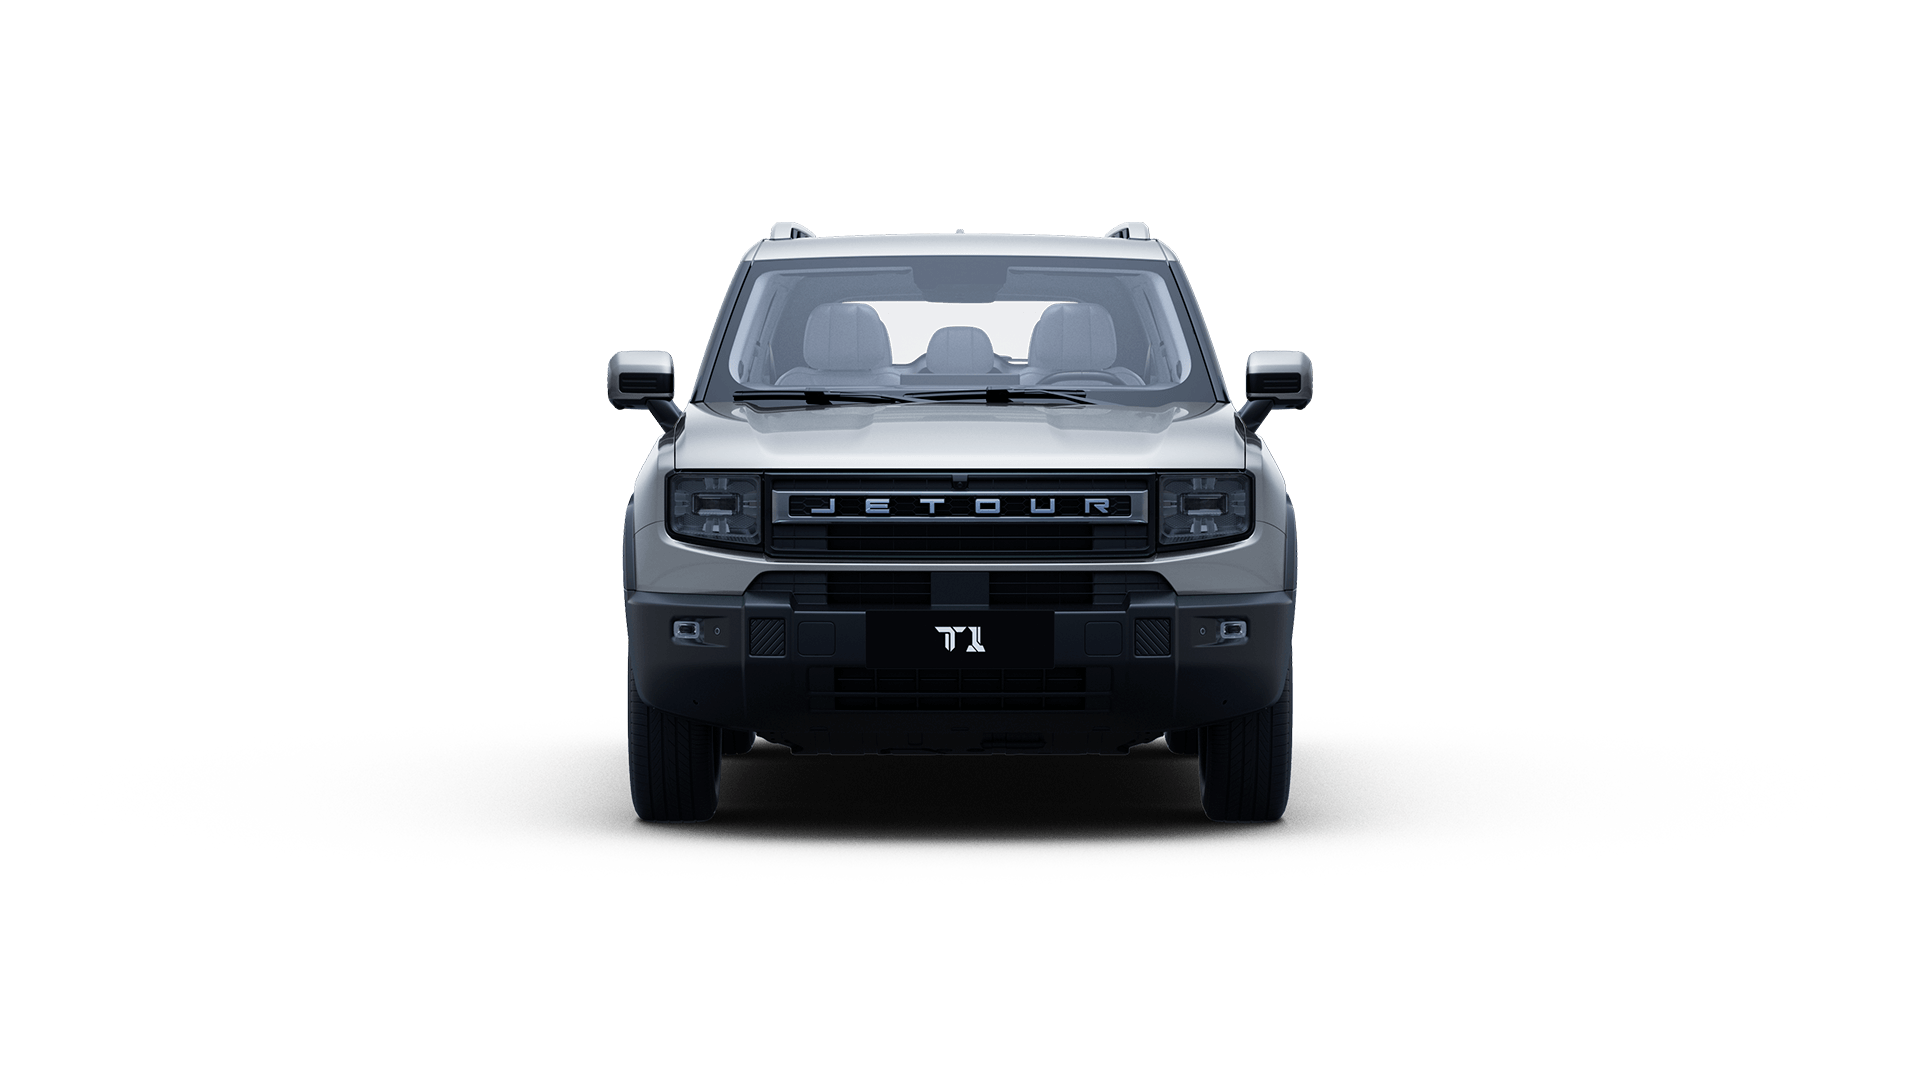
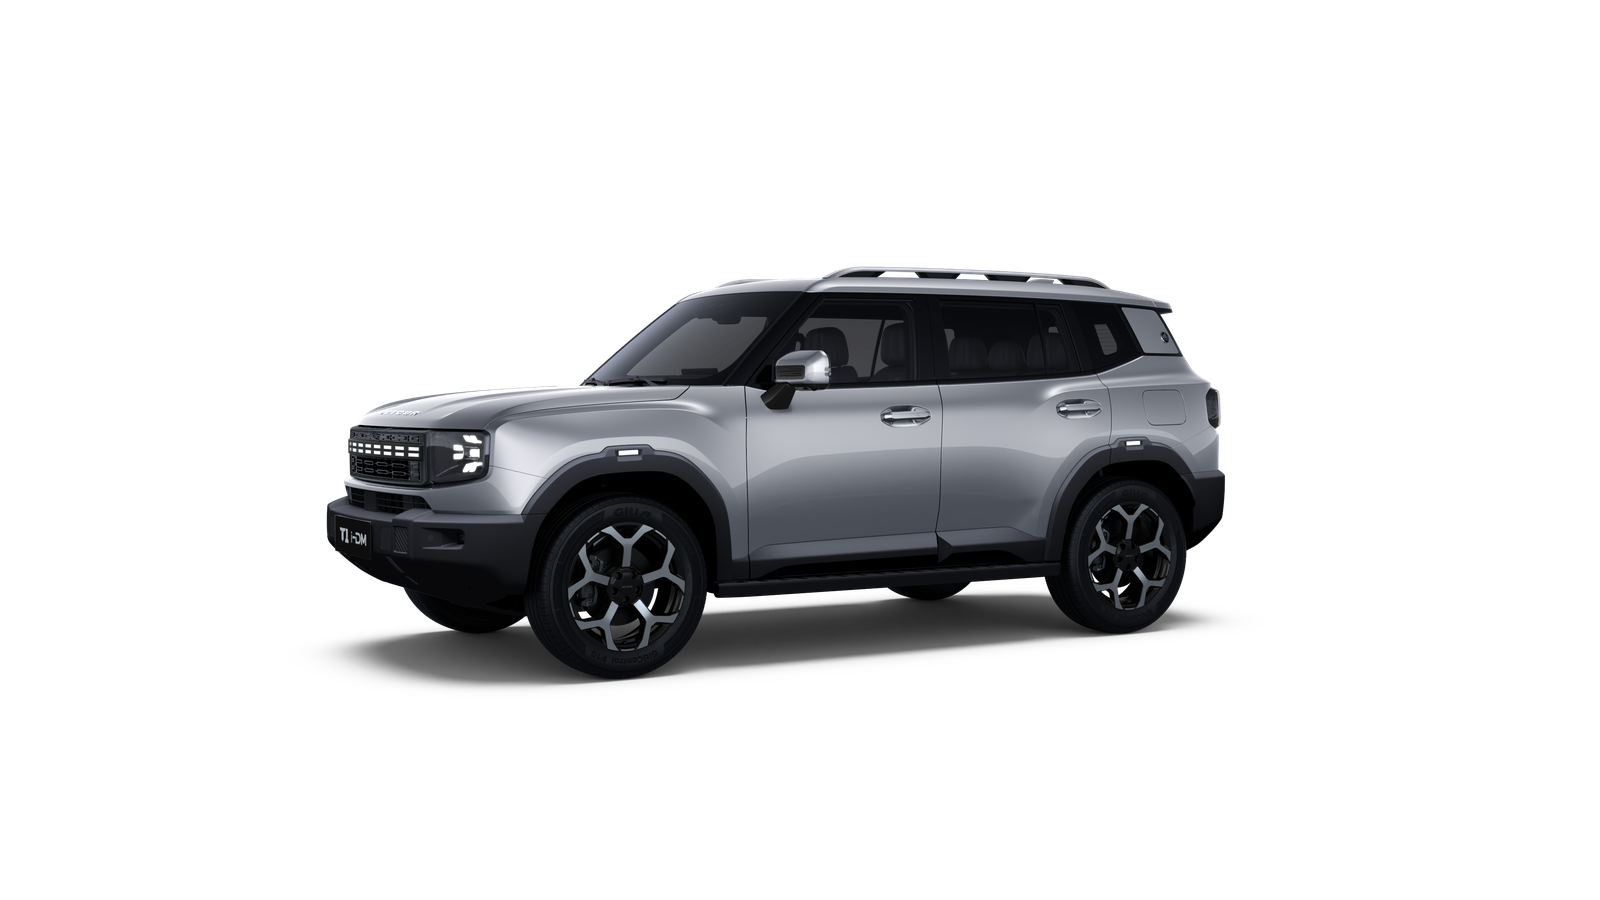
feat(t1-phev): selector de colores y 360 de 72 frames
El T1 PHEV era el unico modelo del catalogo sin selector de colores ni
modulo 360: `vehicleColorsNew` y `threeSixty` estaban ausentes en
lib/page-data.js y en null en Sanity.

Colores (entregados por Jetour el 2026-09-01, correo "colores para la MOV
de T1"): Blanco, Negro, Crema y Plata en espanol Title Case, igual que los
otros 10 modelos. Falta "Plomo Mate", que el cliente marco PENDIENTE.
Renders a 1024x576, la convencion de F700/G700. Los hex de Blanco, Negro y
Plata se reusan del F700 (misma paleta de fabrica y mismo pipeline de
render); "Crema" se midio neutro (#A7A7A5) y se calento a #A5A08F para que
el swatch se distinga del de Plata en el selector.

360: los 72 frames se sirven desde /public a 1600x900, igual que el F700
--el unico otro modelo self-hosted-- porque no tenemos escritura en el
bucket GCS de devxiy. PNG sin perdida a proposito: quantizar a 256 colores
bajaba de 407 KB a 47 KB por frame pero bandeaba la carroceria.
components/360.jsx arma el nombre como `${imagePath}/${i}.png`, sin padding,
asi que los 001.png-072.png del cliente se renombran a 1.png-72.png.

La miniatura del home pasa de 360/22.png a 360/9.png: con el set viejo de
28 frames el 22 era el perfil hacia la izquierda, y en el set de 72 ese
mismo angulo cae en el 9.

Los 4 colores ya estan en Sanity production. `threeSixty` NO: los frames
viven en el repo, asi que publicar el campo antes de este deploy hacia que
produccion pidiera los frames 29-72 y devolviera 404. Se aplica despues de
[…]

Changed region(s): [[0.1875, 0.1867, 0.7812, 0.8089]]

diff --git a/lib/page-data.js b/lib/page-data.js
@@ -2617,6 +2617,53 @@ export const vehicleModelPagesData = {
         },
       ],
     },
+    // 360° entregado por Jetour el 2026-09-01 junto con los colores. El T1 PHEV tampoco
+    // tenía este módulo (`threeSixty` ausente acá y null en Sanity). Los 72 frames vienen
+    // a 4000×2250 y se sirven reescalados a 1600×900, igual que el F700 — el único otro
+    // modelo self-hosted; el resto sigue apuntando al bucket GCS de devxiy.
+    // El componente arma el nombre como `${imagePath}/${i}.png` (1..totalFrames, sin padding).
+    threeSixty: {
+      model: "t1-phev",
+      totalFrames: 72,
+      title: "Vista 360° del T1 PHEV",
+      subtitle:
+        "Arrastra para rotar el vehículo o usa los controles de navegación",
+      imagePath: "/models/t1-phev/360",
+      showInstructions: true,
+    },
+    // Colores entregados por Jetour el 2026-09-01 (correo "colores para la MOV de T1").
+    // El T1 PHEV era el ÚNICO modelo del catálogo sin selector de color: `vehicleColorsNew`
+    // estaba ausente acá y null en Sanity, así que esto lo agrega por primera vez.
+    // Nomenclatura en español y Title Case, igual que los otros 10 modelos.
+    // Los hex de Blanco/Negro/Plata se reusan del F700 (misma paleta de fábrica y mismo
+    // pipeline de render). "Crema" se midió neutro en el render (#A7A7A5) y se calentó a
+    // #A5A08F para que el swatch se distinga de Plata en el selector — a confirmar con Verónica.
+    // FALTA "Plomo Mate": el cliente lo marcó PENDIENTE en el correo.
+    vehicleColorsNew: {
+      modelName: "T1 PHEV",
+      colors: [
+        {
+          name: "Blanco",
+          hex: "#D8D9DA",
+          image: "/models/t1-phev/t1-phev-color-blanco.png"
+        },
+        {
+          name: "Negro",
+          hex: "#1A1B1F",
+          image: "/models/t1-phev/t1-phev-color-negro.png"
+        },
+        {
+          name: "Crema",
+          hex: "#A5A08F",
+          image: "/models/t1-phev/t1-phev-color-crema.png"
+        },
+        {
+          name: "Plata",
+          hex: "#9BA0A8",
+          image: "/models/t1-phev/t1-phev-color-plata.png"
+        }
+      ]
+    },
     featureSlides: [
       {
         title: "Tecnología",

diff --git a/components/VehicleShowcaseNew.jsx b/components/VehicleShowcaseNew.jsx
@@ -83,8 +83,8 @@ export default function VehicleShowcaseNew() {
       name: "T1 PHEV",
       type: "Hybrid Off-Road SUV",
       logo: "/models/t1/t1-phev-logo.png",
-      mainImage: "/models/t1-phev/360/22.png",
-      thumbnail: "/models/t1-phev/360/22.png",
+      mainImage: "/models/t1-phev/360/9.png",
+      thumbnail: "/models/t1-phev/360/9.png",
       dimensions: {
         length: "4705",
         width: "1967",
